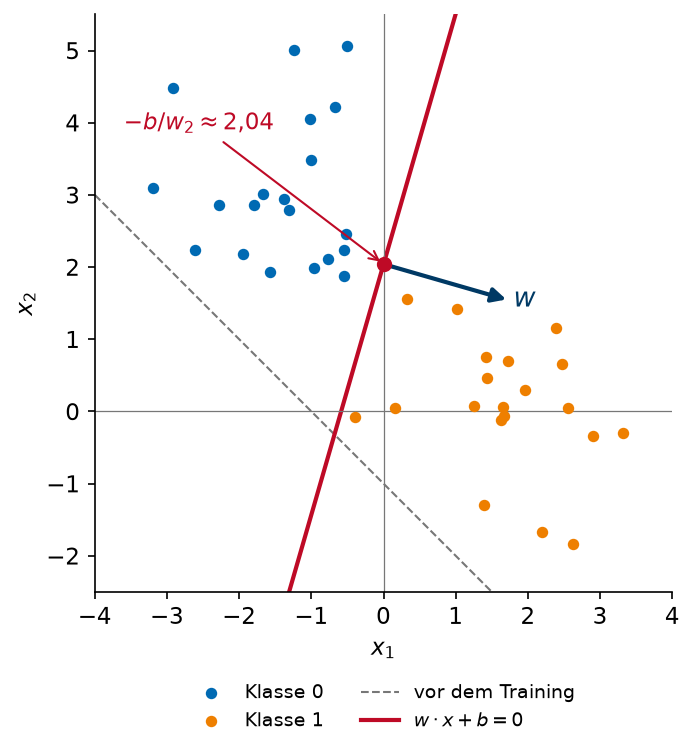
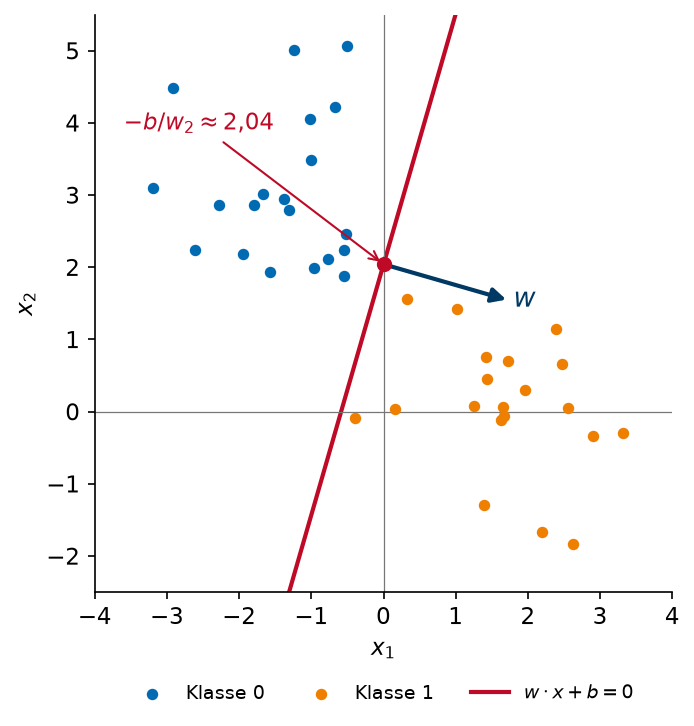
Perzeptron-Abbildung: ohne die Gerade vor dem Training
Die gestrichelte Startgerade lenkte an der Stelle vom Thema ab (Geradengleichung,
Achsenabschnitt -b/w_2). Bild und Bildunterschrift zeigen jetzt nur noch die
trainierte Trenngerade, den Achsenabschnitt und w.

diff --git a/devnotes/make_figures.py b/devnotes/make_figures.py
@@ -228,8 +228,6 @@ def vl02_perceptron_achsenabschnitt():
     for k, c in [(0, HHU_BLUE), (1, HHU_ORANGE)]:
         ax.scatter(X[y == k, 0], X[y == k, 1], s=20, color=c, label=f"Klasse {k}", zorder=3)
     xs = np.array([-4, 4])
-    ax.plot(xs, -(start[0] + start[1] * xs) / start[2], color=GREY, lw=1, ls="--",
-            label="vor dem Training")
     ax.plot(xs, -(b + w1 * xs) / w2, color=HHU_RED, lw=2, label=r"$w \cdot x + b = 0$")
     ax.axhline(0, color=GREY, lw=0.6)
     ax.axvline(0, color=GREY, lw=0.6)
@@ -245,7 +243,7 @@ def vl02_perceptron_achsenabschnitt():
     ax.set_aspect("equal")
     ax.set_xlabel("$x_1$")
     ax.set_ylabel("$x_2$")
-    ax.legend(loc="upper center", bbox_to_anchor=(0.5, -0.13), ncol=2, fontsize=9, frameon=False)
+    ax.legend(loc="upper center", bbox_to_anchor=(0.5, -0.13), ncol=3, fontsize=9, frameon=False)
     save(fig, "vl02-perceptron-achsenabschnitt")
 
 

diff --git a/part-grundlagen/02-neuron-perzeptron.md b/part-grundlagen/02-neuron-perzeptron.md
@@ -94,7 +94,7 @@ Normiert mit $c = 1/0{,}49$ (hier $c > 0$, also ändert sich nicht einmal die Kl
 :::{figure} ../images/vl02-perceptron-achsenabschnitt.png
 :width: 60%
 
-Das Perzeptron aus dem Beispiel: Die Trenngerade $w \cdot x + b = 0$ schneidet die $x_2$-Achse bei $-b/w_2 \approx 2{,}04$. Der Gewichtsvektor $w$, dort angetragen, steht senkrecht auf ihr und zeigt zur Klasse $1$. Gestrichelt die Gerade vor dem Training ($w = (1, 1)$, $b = 1$).
+Das Perzeptron aus dem Beispiel: Die Trenngerade $w \cdot x + b = 0$ schneidet die $x_2$-Achse bei $-b/w_2 \approx 2{,}04$. Der Gewichtsvektor $w$, dort angetragen, steht senkrecht auf ihr und zeigt zur Klasse $1$.
 :::
 
 :::{prf:definition} Linear trennbar
